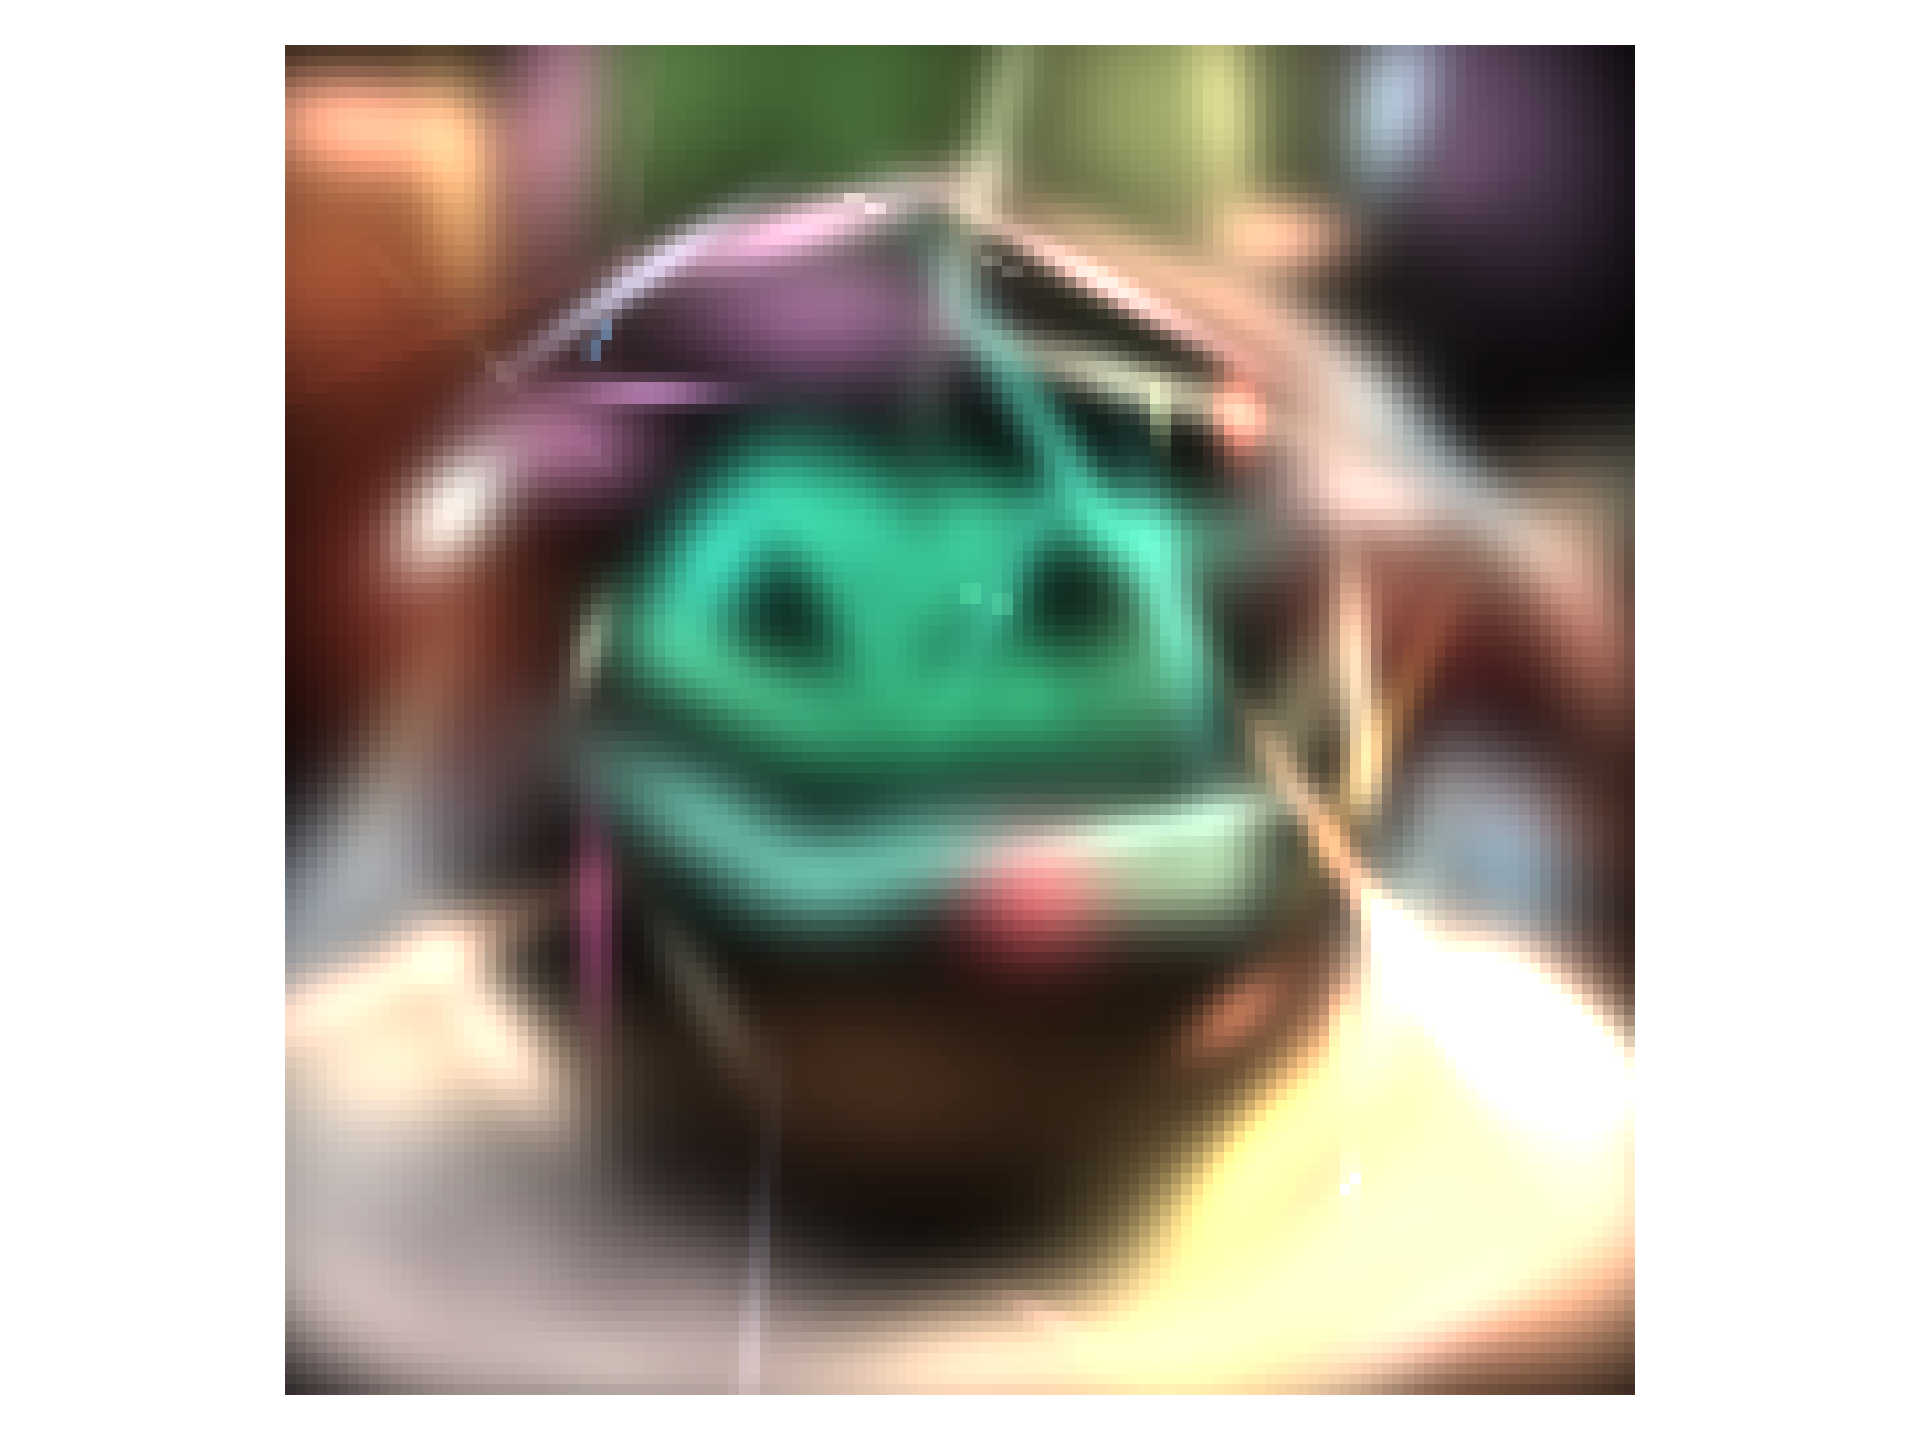
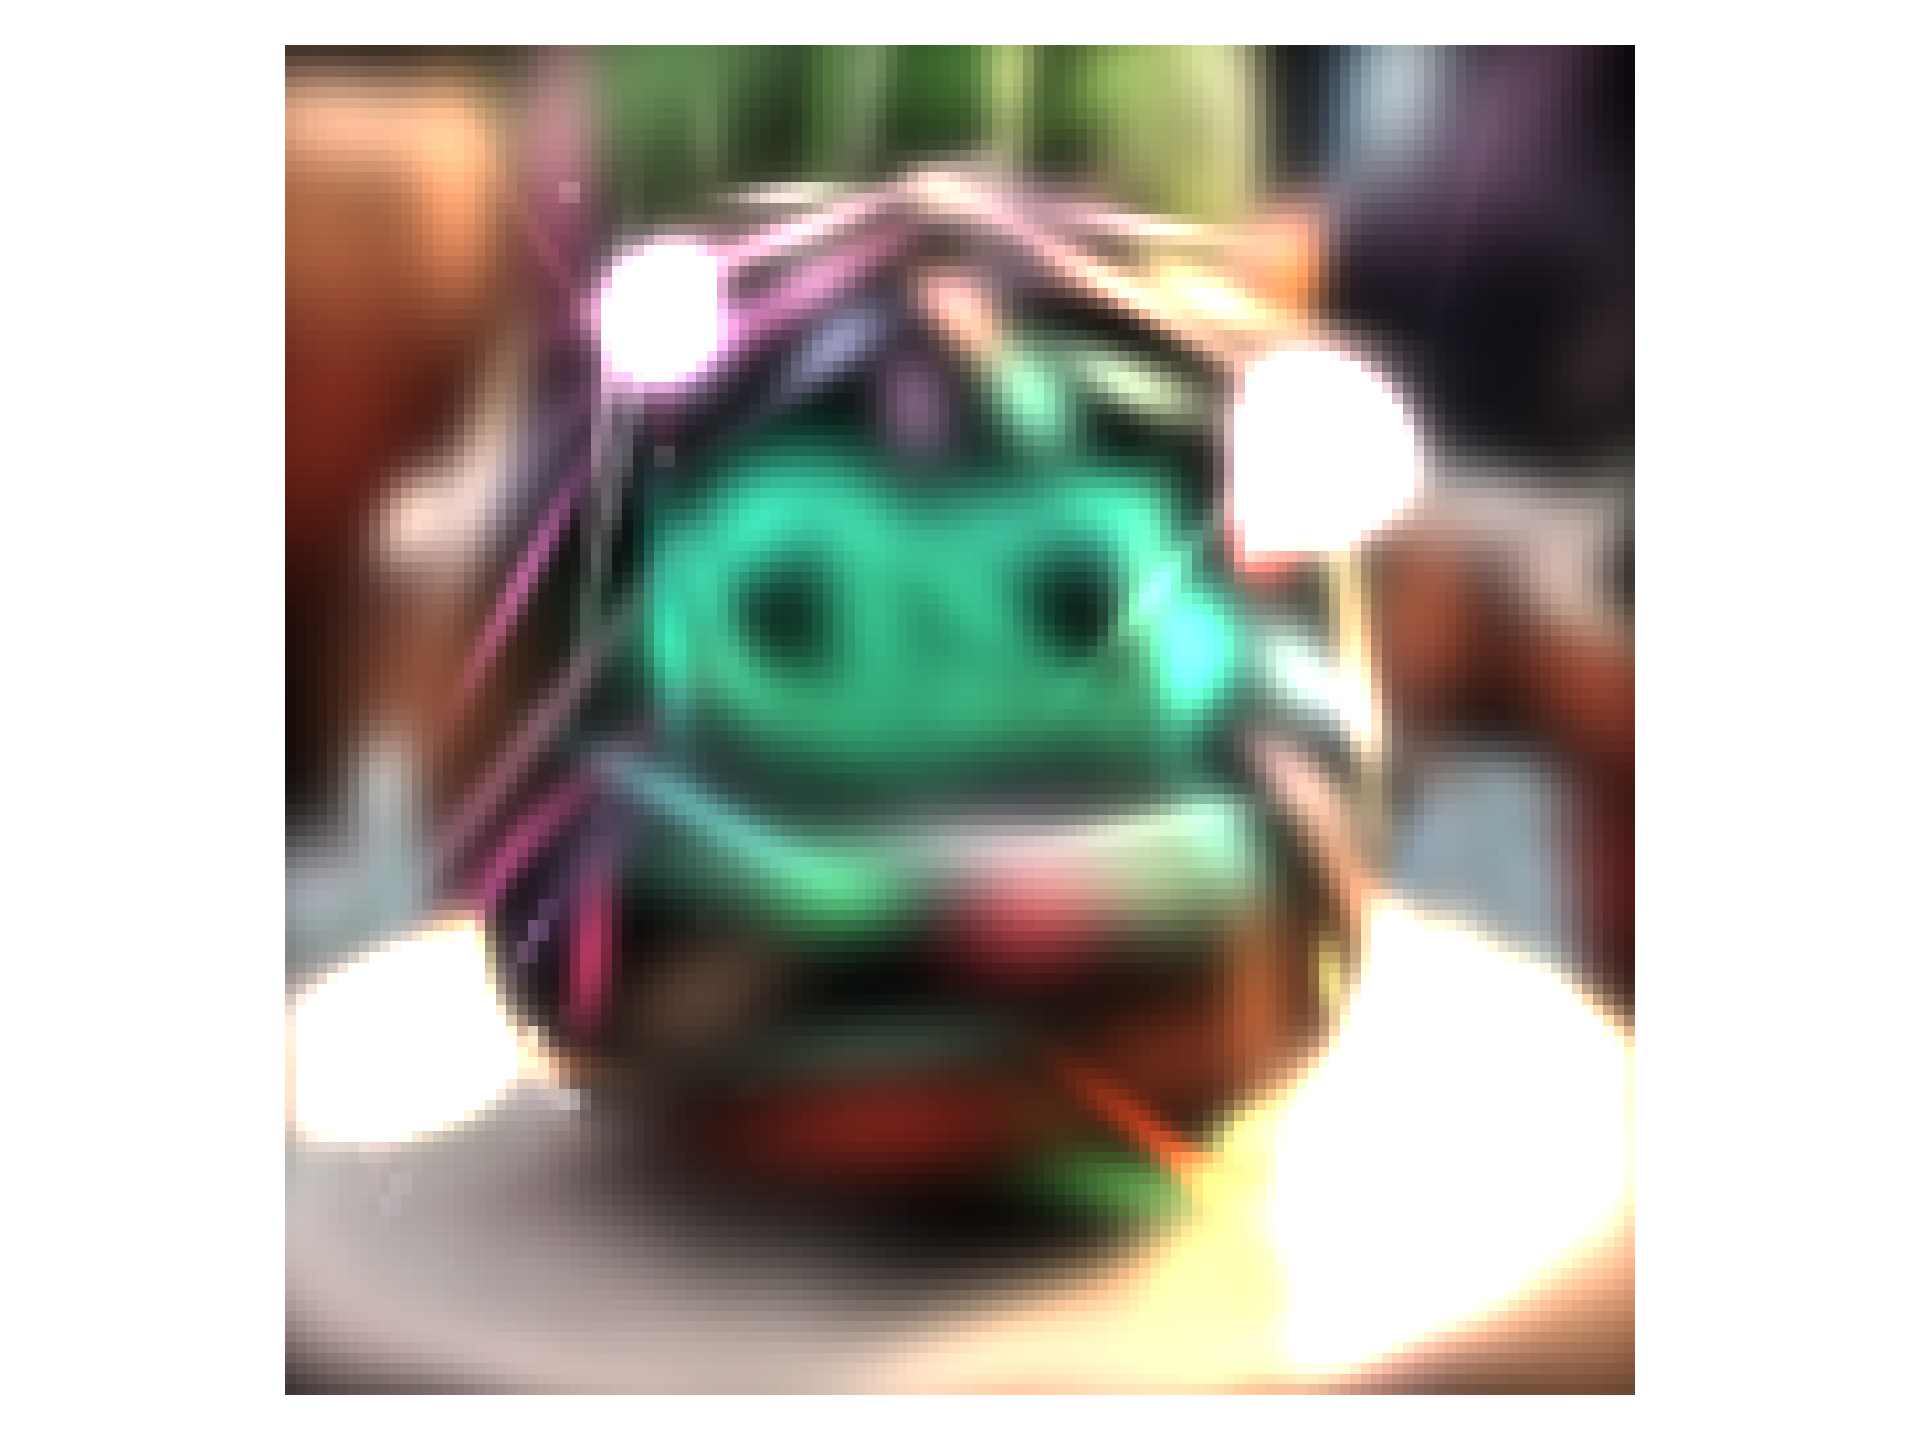
implement training heuristics

diff --git a/gsplat2d/__main__.py b/gsplat2d/__main__.py
@@ -62,12 +62,12 @@ def train(device, outdir, resdir):
     # load config
     # with open(configfile, 'r') as config_file:
     #     config = yaml.safe_load(config_file)
-    
+
     # Extract values from the loaded config
     config = {
         "KERNEL_SIZE"            : 101,           # config["KERNEL_SIZE"]
         "image_size"             : (128, 128, 3), # (256, 256, 3), # tuple(config["image_size"])
-        "primary_gaussians"      : 100, # 1000,          # config["primary_samples"]
+        "primary_gaussians"      : 200, # 1000,          # config["primary_samples"]
         "backup_gaussians"       : 400, # 4000,          # config["backup_samples"]
         "num_epochs"             : 2000,          # config["num_epochs"]
         "densification_interval" : 100, #300,           # config["densification_interval"]
@@ -143,14 +143,22 @@ def train(device, outdir, resdir):
 
             # split points with large coordinate gradients
             # and large gaussian values (i.e. model.scale)
-            if len(common_idx) > 0:
-                print(f"Splitting {len(common_idx)} Gaussians.")
-                model.split(common_idx)
+            print(f"Splitting {len(common_idx)} Gaussians.")
+            i0, i1 = model.clone(common_idx)
+
+            scale_factor = 1.6
+            model.scale.data[common_idx] /= scale_factor
+            model.scale.data[i0:i1     ] /= scale_factor
 
             # clone points with large coordinate gradients
             # and small gaussian values (i.e. model.scale)
             print(f"Cloning {len(distinct_idx)} Gaussians.")
-            model.clone(distinct_idx)
+            i0, i1 = model.clone(distinct_idx)
+
+            step_size = 0.01
+            pos_grad = model.mean.grad[distinct_idx]
+            pos_grad_mag = torch.norm(pos_grad, dim=1, keepdim=True)
+            model.mean.data[i0:i1] += pos_grad / (pos_grad_mag + 1e-6)
 
         # update optimizer
         opt.step()

diff --git a/gsplat2d/models.py b/gsplat2d/models.py
@@ -69,15 +69,10 @@ class GSplat(nn.Module):
         assert mask.dtype == torch.bool # indexable
         return torch.cat([x[~mask], 0 * x[mask]], dim=0)
 
-    def split(self, idx: torch.Tensor, scale_factor = 1.6):
-        i0, i1 = self.clone(idx)
-        self.scale.data[idx  ] /= scale_factor
-        self.scale.data[i0:i1] /= scale_factor
-        return
-
+    @torch.no_grad()
     def clone(self, idx):
         if len(idx) == 0:
-            return
+            return 0,0
 
         # indices of newly formed Gaussians
         i0 = self.active_gaussians()
